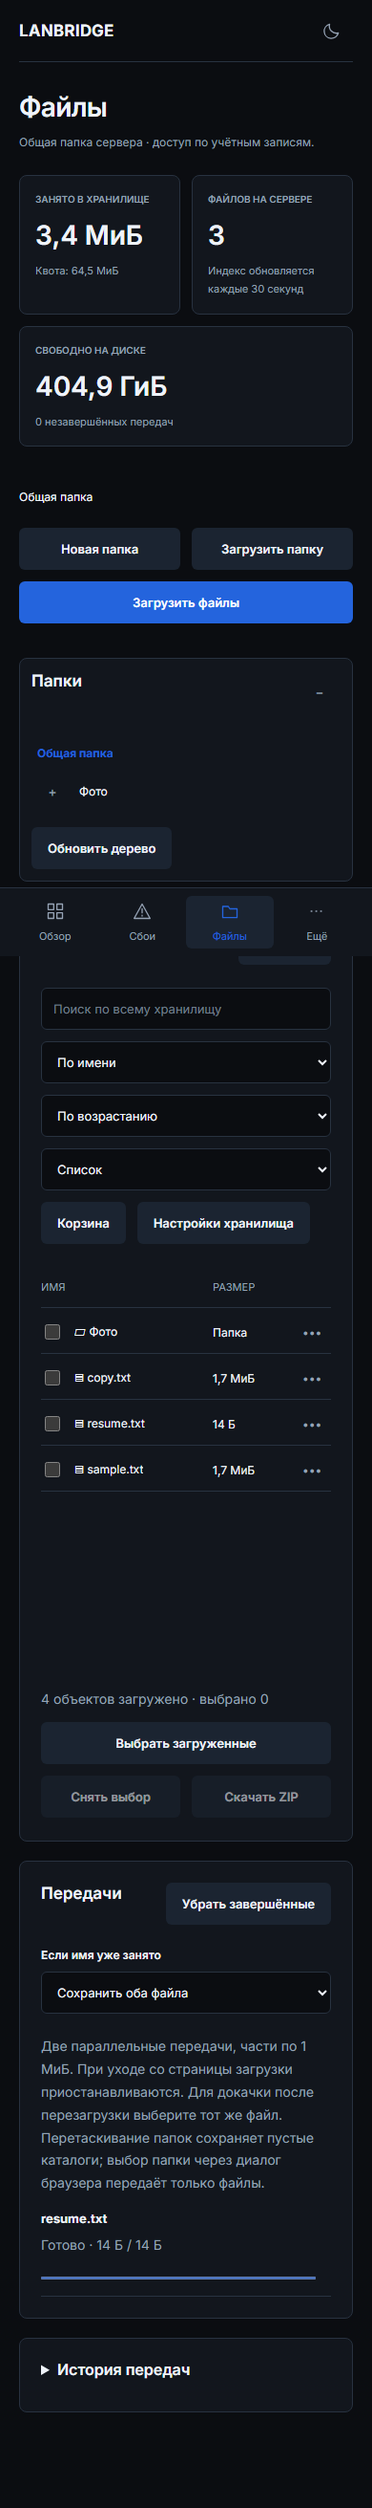
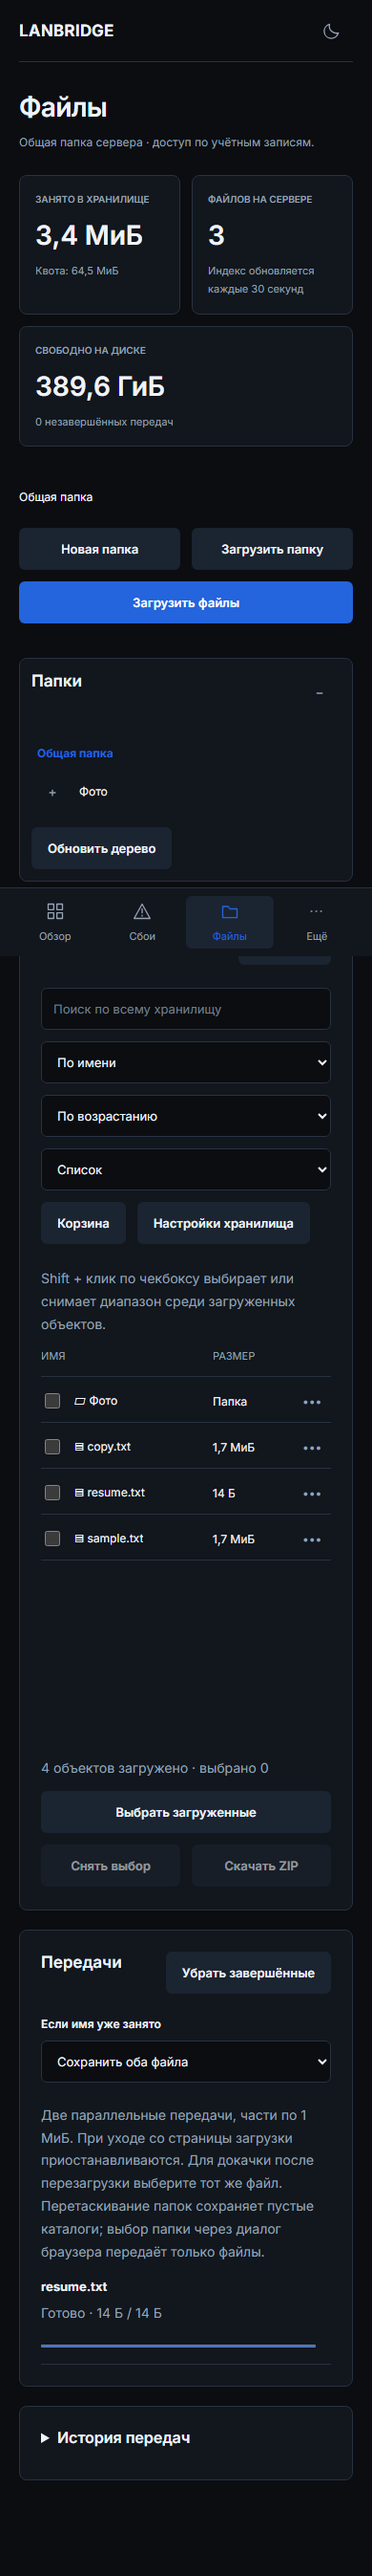
feat: add shift range selection for files

diff --git a/web/src/files.js b/web/src/files.js
@@ -5,6 +5,7 @@ import {StorageSettings} from './storage-settings.js';
 import {FilePreview} from './file-preview.js';
 import {FolderTree} from './folder-tree.js';
 import {UploadHistory} from './upload-history.js';
+import {selectFileRange} from './file-selection.js';
 const html=htm.bind(h);
 export const bytes=n=>{if(!n)return '0 Б';const k=Math.min(4,Math.floor(Math.log(n)/Math.log(1024)));return (n/1024**k).toLocaleString('ru-RU',{maximumFractionDigits:1})+' '+['Б','КиБ','МиБ','ГиБ','ТиБ'][k]};
 const join=(folder,name)=>folder==='.'?name:folder+'/'+name;
@@ -13,6 +14,7 @@ function hashFile(file,signal,onProgress){return new Promise((resolve,reject)=>{
 export function FileBrowser({api,notify,user,csrf}){
  const[folder,setFolder]=useState('.'),[query,setQuery]=useState(''),[sort,setSort]=useState('name'),[items,setItems]=useState([]),[more,setMore]=useState(false),[loading,setLoading]=useState(true),[error,setError]=useState(''),[storage,setStorage]=useState(null),[selected,setSelected]=useState([]),[scroll,setScroll]=useState(0),[dialog,setDialog]=useState(null),[queue,setQueue]=useState([]),[conflict,setConflict]=useState('both'),[trash,setTrash]=useState(null);
  const[order,setOrder]=useState('asc');
+ const selectionAnchor=useRef(null);
  const viewKey='lanbridge-file-view-'+user.id;
  const[view,setView]=useState(()=>{try{return localStorage.getItem(viewKey)==='grid'?'grid':'list'}catch{return 'list'}}),[width,setWidth]=useState(0);
  useEffect(()=>{try{localStorage.setItem(viewKey,view)}catch{/* Storage may be disabled; keep the in-memory preference. */}},[viewKey,view]);
@@ -21,7 +23,7 @@ export function FileBrowser({api,notify,user,csrf}){
  refreshRef.current=refresh;
  const redraw=()=>{if(alive.current)setQueue([...jobs.current])};
  useEffect(()=>{alive.current=true;api('uploads').then(data=>{if(!alive.current)return;jobs.current=data.map(u=>({...u,key:u.id,state:u.state==='committing'?'paused':'choose',serverState:u.state}));redraw()}).catch(e=>notify(e.message,true));return()=>{alive.current=false;for(const j of jobs.current)j.controller?.abort()}},[]);
- useEffect(()=>{setSelected([]);const timer=setTimeout(()=>refresh(),query?200:0);return()=>{clearTimeout(timer);generation.current++}},[folder,query,sort,order]);
+ useEffect(()=>{setSelected([]);selectionAnchor.current=null;const timer=setTimeout(()=>refresh(),query?200:0);return()=>{clearTimeout(timer);generation.current++}},[folder,query,sort,order]);
  async function request(path,method,body,signal,extra={}){const response=await fetch('/api/'+path,{method,signal,headers:{'X-CSRF-Token':csrf,...extra},body});const value=await response.json();if(!response.ok)throw new Error(value.error||'Ошибка передачи');return value}
  async function run(j){
   const controller=new AbortController();j.controller=controller;j.state='hashing';j.error='';redraw();
@@ -54,14 +56,15 @@ export function FileBrowser({api,notify,user,csrf}){
  const visible=items.slice(start,start+(view==='grid'?7*columns:18));
  const zipTooLarge=new TextEncoder().encode(JSON.stringify({paths:selected})).length>16384;
  function selectLoaded(){setSelected(items.slice(0,1000).map(item=>item.path))}
- function toggleSelection(path,checked){setSelected(previous=>checked?(previous.length>=1000?previous:[...new Set([...previous,path])]):previous.filter(value=>value!==path))}
+ function toggleSelection(path,checked,shift){const result=selectFileRange(selected,items.map(item=>item.path),selectionAnchor.current,path,checked,shift);setSelected(result.selected);selectionAnchor.current=path;if(result.limited)notify('Выбрано не более 1000 объектов. Сократите диапазон или скачайте папку целиком.')}
+ function clearSelection(){selectionAnchor.current=null;setSelected([])}
  const download=name=>'/api/files/download?'+new URLSearchParams({path:name});
  const busy=queue.filter(j=>!['complete','cancelled'].includes(j.state)).length;
  return html`<div class="stats three"><section class="stat"><h2>ЗАНЯТО В ХРАНИЛИЩЕ</h2><strong>${storage?bytes(storage.used):'—'}</strong><p>${storage?.settings.global_limit?'Квота: '+bytes(storage.settings.global_limit):'Квота не ограничена'}</p></section><section class="stat"><h2>ФАЙЛОВ НА СЕРВЕРЕ</h2><strong>${storage?.files??'—'}</strong><p>Индекс обновляется каждые 30 секунд</p></section><section class="stat"><h2>СВОБОДНО НА ДИСКЕ</h2><strong>${storage?bytes(storage.available):'—'}</strong><p>${busy} незавершённых передач</p></section></div>
  <div class="file-actions"><nav aria-label="Путь к папке"><button class="monitor-name" onClick=${()=>setFolder('.')}>Общая папка</button>${folder!=='.'&&folder.split('/').map((part,i)=>html`<span> / <button class="monitor-name" onClick=${()=>setFolder(folder.split('/').slice(0,i+1).join('/'))}>${part}</button></span>`)}</nav><div class="dialog-actions"><button class="button secondary" onClick=${()=>setDialog({action:'mkdir'})}>Новая папка</button><button class="button secondary" onClick=${()=>directory.current.click()}>Загрузить папку</button><button class="button" onClick=${()=>input.current.click()}>Загрузить файлы</button></div></div>
  <input hidden type="file" multiple ref=${input} onChange=${e=>{addFiles(Array.from(e.currentTarget.files));e.currentTarget.value=''}}/><input hidden type="file" multiple webkitdirectory=${true} ref=${directory} onChange=${e=>{addFiles(Array.from(e.currentTarget.files));e.currentTarget.value=''}}/><input hidden type="file" ref=${resumeInput} onChange=${e=>{const file=e.currentTarget.files[0],j=resumeItem.current;if(file&&j){if(file.size!==j.size)notify('Размер исходного файла не совпадает',true);else{j.file=file;j.state='queued';redraw();pump()}}e.currentTarget.value=''}}/>
  <div class="file-browser-layout"><${FolderTree} api=${api} folder=${folder} onNavigate=${path=>{setFolder(path);setQuery('')}}/><section class="panel file-panel" onDragOver=${e=>e.preventDefault()} onDrop=${dropped}><div class="panel-heading"><h2>Содержимое папки</h2><button class="button secondary" onClick=${()=>refresh()} disabled=${loading}>Обновить</button></div><div class="toolbar"><input aria-label="Поиск файлов" placeholder="Поиск по всему хранилищу" value=${query} onInput=${e=>setQuery(e.currentTarget.value)}/><select aria-label="Сортировка файлов" value=${sort} onChange=${e=>setSort(e.currentTarget.value)}><option value="name">По имени</option><option value="size">По размеру</option><option value="modified">По дате</option></select><select aria-label="Порядок сортировки" value=${order} onChange=${e=>setOrder(e.currentTarget.value)}><option value="asc">По возрастанию</option><option value="desc">По убыванию</option></select><select aria-label="Вид файлов" value=${view} onChange=${e=>setView(e.currentTarget.value)}><option value="list">Список</option><option value="grid">Плитки</option></select><button class="button secondary" onClick=${openTrash}>Корзина</button>${user.role==='admin'&&html`<button class="button secondary" disabled=${!storage} onClick=${()=>setDialog({action:'storage'})}>Настройки хранилища</button>`}</div>${error&&html`<p class="form-error" role="alert">${error}</p>`}
- <div class="file-list-head" hidden=${view==='grid'}><span>ИМЯ</span><span>РАЗМЕР</span><span>ИЗМЕНЁН</span><span>ДОСТУП</span></div><div class="file-viewport" ref=${viewport} onScroll=${e=>setScroll(e.currentTarget.scrollTop)} aria-label="Список файлов" aria-busy=${loading} role="list"><div style=${{height:Math.max(Math.ceil(items.length/columns)*rowHeight,items.length?0:140)+'px',position:'relative'}}>${visible.map((item,i)=>html`<div role="listitem" class=${view==='grid'?'file-row file-tile':'file-row'} key=${item.path} aria-posinset=${start+i+1} aria-setsize=${items.length} style=${view==='grid'?{top:(Math.floor((start+i)/columns)*rowHeight)+'px',left:((start+i)%columns*100/columns)+'%',width:'calc('+100/columns+'% - 10px)'}:{top:((start+i)*48)+'px'}}><div class="file-name"><input type="checkbox" aria-label=${'Выбрать '+item.name} checked=${selected.includes(item.path)} disabled=${!selected.includes(item.path)&&selected.length>=1000} onChange=${e=>toggleSelection(item.path,e.currentTarget.checked)}/>${item.directory?html`<button class="monitor-name" title=${item.path} onClick=${()=>{setFolder(item.path);setQuery('')}}>▱ ${item.name}</button>`:html`<a title=${item.path} href=${download(item.path)}>▤ ${item.name}</a>`}</div><span>${item.directory?'Папка':bytes(item.size)}</span><span>${new Date(item.modified/1e6).toLocaleDateString('ru-RU')}</span><div class="file-row-end"><span>${{users:'Пользователи',admin:'Администратор',read:'Чтение'}[item.access]}</span><button class="icon-button" aria-label=${'Действия: '+item.name} onClick=${()=>setDialog({action:'menu',item})}>•••</button></div></div>`)}${!items.length&&html`<div class="empty compact"><h3>${loading?'Загрузка…':query?'Ничего не найдено':'Папка пуста'}</h3><p>Перетащите сюда файлы или папки.</p></div>`}</div></div><div class="file-actions"><span class="muted">${items.length} объектов загружено · выбрано ${selected.length}</span><div class="dialog-actions">${more&&html`<button class="button secondary" disabled=${loading} onClick=${()=>refresh(true)}>Загрузить ещё</button>`}<button class="button secondary" disabled=${!items.length||loading} onClick=${selectLoaded}>${items.length>1000?'Выбрать первые 1000':'Выбрать загруженные'}</button><button class="button secondary" disabled=${!selected.length} onClick=${()=>setSelected([])}>Снять выбор</button><button class="button secondary" disabled=${!selected.length||zipTooLarge} onClick=${zip}>Скачать ZIP</button></div></div>${zipTooLarge&&html`<p class="warning" role="status">Сократите выбор: общий список имён слишком большой. Можно выбрать родительскую папку вместо отдельных файлов.</p>`}</section></div>
+ <p class="muted">Shift + клик по чекбоксу выбирает или снимает диапазон среди загруженных объектов.</p><div class="file-list-head" hidden=${view==='grid'}><span>ИМЯ</span><span>РАЗМЕР</span><span>ИЗМЕНЁН</span><span>ДОСТУП</span></div><div class="file-viewport" ref=${viewport} onScroll=${e=>setScroll(e.currentTarget.scrollTop)} aria-label="Список файлов" aria-busy=${loading} role="list"><div style=${{height:Math.max(Math.ceil(items.length/columns)*rowHeight,items.length?0:140)+'px',position:'relative'}}>${visible.map((item,i)=>html`<div role="listitem" class=${view==='grid'?'file-row file-tile':'file-row'} key=${item.path} aria-posinset=${start+i+1} aria-setsize=${items.length} style=${view==='grid'?{top:(Math.floor((start+i)/columns)*rowHeight)+'px',left:((start+i)%columns*100/columns)+'%',width:'calc('+100/columns+'% - 10px)'}:{top:((start+i)*48)+'px'}}><div class="file-name"><input type="checkbox" aria-label=${'Выбрать '+item.name} checked=${selected.includes(item.path)} disabled=${!selected.includes(item.path)&&selected.length>=1000} onClick=${e=>toggleSelection(item.path,e.currentTarget.checked,e.shiftKey)}/>${item.directory?html`<button class="monitor-name" title=${item.path} onClick=${()=>{setFolder(item.path);setQuery('')}}>▱ ${item.name}</button>`:html`<a title=${item.path} href=${download(item.path)}>▤ ${item.name}</a>`}</div><span>${item.directory?'Папка':bytes(item.size)}</span><span>${new Date(item.modified/1e6).toLocaleDateString('ru-RU')}</span><div class="file-row-end"><span>${{users:'Пользователи',admin:'Администратор',read:'Чтение'}[item.access]}</span><button class="icon-button" aria-label=${'Действия: '+item.name} onClick=${()=>setDialog({action:'menu',item})}>•••</button></div></div>`)}${!items.length&&html`<div class="empty compact"><h3>${loading?'Загрузка…':query?'Ничего не найдено':'Папка пуста'}</h3><p>Перетащите сюда файлы или папки.</p></div>`}</div></div><div class="file-actions"><span class="muted">${items.length} объектов загружено · выбрано ${selected.length}</span><div class="dialog-actions">${more&&html`<button class="button secondary" disabled=${loading} onClick=${()=>refresh(true)}>Загрузить ещё</button>`}<button class="button secondary" disabled=${!items.length||loading} onClick=${selectLoaded}>${items.length>1000?'Выбрать первые 1000':'Выбрать загруженные'}</button><button class="button secondary" disabled=${!selected.length} onClick=${clearSelection}>Снять выбор</button><button class="button secondary" disabled=${!selected.length||zipTooLarge} onClick=${zip}>Скачать ZIP</button></div></div>${zipTooLarge&&html`<p class="warning" role="status">Сократите выбор: общий список имён слишком большой. Можно выбрать родительскую папку вместо отдельных файлов.</p>`}</section></div>
  <section class="panel"><div class="panel-heading"><h2>Передачи</h2><button class="button secondary" onClick=${()=>{jobs.current=jobs.current.filter(j=>j.state!=='complete');redraw()}}>Убрать завершённые</button></div><label class="field"><span>Если имя уже занято</span><select value=${conflict} onChange=${e=>setConflict(e.currentTarget.value)}><option value="both">Сохранить оба файла</option><option value="skip">Пропустить (показать конфликт)</option><option value="replace">Заменить существующий файл</option></select></label><p class="muted">Две параллельные передачи, части по 1 МиБ. При уходе со страницы загрузки приостанавливаются. Для докачки после перезагрузки выберите тот же файл. Перетаскивание папок сохраняет пустые каталоги; выбор папки через диалог браузера передаёт только файлы.</p><div class="upload-list">${queue.map(j=>html`<div class="upload-row" key=${j.key}><div><strong>${j.path}</strong><p class="muted">${labels[j.state]} · ${bytes(j.offset||0)} / ${bytes(j.size)}${j.state==='hashing'?' · '+Math.round(100*(j.hashed||0)/Math.max(1,j.size))+'%':j.state==='uploading'&&j.speed?' · '+bytes(j.speed)+'/с · осталось '+Math.ceil((j.size-j.offset)/j.speed)+' с':''}</p><progress max=${Math.max(1,j.size)} value=${j.state==='complete'?Math.max(1,j.size):j.offset||0}/>${j.error&&html`<p class="form-error">${j.error}</p>`}</div><div class="dialog-actions">${['hashing','uploading','finishing'].includes(j.state)?html`<button class="button secondary" onClick=${()=>j.controller?.abort()}>Пауза</button>`:['paused','choose','error'].includes(j.state)&&html`<button class="button secondary" onClick=${()=>resume(j)}>${j.file||j.serverState==='committing'?'Продолжить':'Выбрать файл'}</button>`}${j.state!=='complete'&&html`<button class="icon-button" aria-label=${'Отменить '+j.path} onClick=${()=>cancel(j)}>×</button>`}</div></div>`)}</div>${!queue.length&&html`<p class="muted">Нет активных передач.</p>`}</section>
  <${UploadHistory} api=${api} formatSize=${bytes}/>
  ${dialog?.action==='storage'&&html`<${StorageSettings} settings=${storage.settings} api=${api} onClose=${()=>setDialog(null)} onSaved=${settings=>{setStorage({...storage,settings});setDialog(null);notify('Настройки хранилища сохранены')}}/>`}

diff --git a/web/src/file-selection.test.js b/web/src/file-selection.test.js
@@ -1,0 +1,10 @@
+import {test} from 'node:test';
+import assert from 'node:assert/strict';
+import {selectFileRange as select} from './file-selection.js';
+const paths=['a','b','c','d'];
+test('plain click adds without clearing other selections',()=>assert.deepEqual(select(['a'],paths,'a','c',true,false).selected,['a','c']));
+test('forward range includes both ends',()=>assert.deepEqual(select(['a'],paths,'a','c',true,true).selected,['a','b','c']));
+test('reverse range and removal',()=>assert.deepEqual(select(paths,paths,'d','b',false,true).selected,['a']));
+test('missing anchor becomes a single selection',()=>assert.deepEqual(select([],paths,'gone','c',true,true).selected,['c']));
+test('range is bounded',()=>assert.deepEqual(select([],paths,'a','d',true,true,2),{selected:['a','b'],limited:true}));
+test('invisible rows remain selectable',()=>{const all=Array.from({length:1100},(_,i)=>String(i));const result=select([],all,'0','1099',true,true);assert.equal(result.selected.length,1000);assert.equal(result.limited,true)});

diff --git a/web/src/file-selection.js b/web/src/file-selection.js
@@ -1,0 +1,12 @@
+// Selection uses loaded paths, so it also covers virtualized rows outside the DOM.
+export function selectFileRange(previous, paths, anchor, target, checked, shift, limit=1000) {
+ const end=paths.indexOf(target), start=shift?paths.indexOf(anchor):-1;
+ if(end<0)return {selected:previous,limited:false};
+ const range=start<0?[target]:paths.slice(Math.min(start,end),Math.max(start,end)+1);
+ const selected=new Set(previous);let limited=false;
+ for(const path of range){
+  if(!checked)selected.delete(path);
+  else if(!selected.has(path)){if(selected.size>=limit)limited=true;else selected.add(path)}
+ }
+ return {selected:[...selected],limited};
+}

diff --git a/scripts/verify_go_files.py b/scripts/verify_go_files.py
@@ -127,6 +127,16 @@ def main():
      with page.expect_file_chooser() as chooser:page.get_by_role('button',name='Выбрать файл',exact=True).click()
      chooser.value.set_files({"name":"resume.txt","mimeType":"text/plain","buffer":b'resume-content'})
      page.get_by_role('link',name='▤ resume.txt',exact=True).wait_for(timeout=30000)
+     for file_view in ('list','grid'):
+      page.get_by_label('Вид файлов',exact=True).select_option(file_view)
+      page.get_by_label('Выбрать copy.txt',exact=True).check()
+      page.get_by_label('Выбрать sample.txt',exact=True).click(modifiers=['Shift'])
+      for name in ('copy.txt','resume.txt','sample.txt'):
+       assert page.get_by_label('Выбрать '+name,exact=True).is_checked()
+      page.get_by_label('Выбрать copy.txt',exact=True).click(modifiers=['Shift'])
+      for name in ('copy.txt','resume.txt','sample.txt'):
+       assert not page.get_by_label('Выбрать '+name,exact=True).is_checked()
+     page.get_by_label('Вид файлов',exact=True).select_option('list')
      output=ROOT/'docs/previews';output.mkdir(exist_ok=True)
      for theme in ('dark','light'):
       page.evaluate('(t)=>document.documentElement.dataset.theme=t',theme)

diff --git a/docs/go-files.md b/docs/go-files.md
@@ -32,7 +32,10 @@ API отдаёт до 500 объектов за запрос; «Загрузит
 Имя файла запускает скачивание с HTTP Range. Для ZIP отметьте файлы/папки и
 нажмите «Скачать ZIP». «Выбрать загруженные» отмечает уже полученные объекты
 (не только видимые строки); для списка длиннее 1000 выбираются первые 1000.
-«Снять выбор» очищает отметки. Новые страницы автоматически не выделяются.
+Shift + клик по чекбоксу выделяет или снимает диапазон от предыдущего
+чекбокса, включая загруженные строки вне видимой области. Работает в списке и
+плитках; до 1000 объектов, при достижении лимита появляется сообщение.
+«Снять выбор» очищает отметки и начало диапазона. Новые страницы автоматически не выделяются.
 При слишком большом общем списке имён ZIP недоступен до сокращения выбора;
 можно выбрать родительскую папку. После обновления отметки отсутствующих
 в полученном списке объектов сбрасываются. Сервер передаёт архив потоком без промежуточного файла,

diff --git a/README.md b/README.md
@@ -9,7 +9,7 @@
 > Под очередью передач доступна история передач с длительностью, средней скоростью, поиском и фильтром типа.
 > Добавлено раскрываемое дерево папок с постраничной загрузкой.
 > Оставшиеся этапы: [docs/progress.md](docs/progress.md).
-> Для ZIP доступны массовый выбор загруженных объектов и снятие выбора.
+> Для ZIP доступны массовый выбор, диапазон через Shift + клик и снятие выбора.
 > Доступна сортировка файлов по имени, размеру и дате в обоих направлениях.
 > Список файлов переключается на адаптивные плитки; выбор сохраняется в браузере.
 > Предпросмотр текста, изображений и видео — через меню файла «•••».

diff --git a/docs/progress.md b/docs/progress.md
@@ -28,7 +28,7 @@ heartbeat, обнаружение устройств и диагностика. 
 Оставшиеся детали предыдущих этапов:
 
 - Обзор: реальные карточки CPU/RAM/диска и устройств, разделение WAN/LAN, порядок групп.
-- Файлы: перетаскивание в папку/дерево, Shift/Ctrl и групповые операции,
+- Файлы: перетаскивание в папку/дерево, Ctrl-сочетания и групповые операции,
   фоновый размер каталогов, PDF; дерево пока обновляется вручную.
 - Настройки: логотип, формат даты, структура i18n, домашняя страница и порядок карточек.
 - Устройства: полная OUI-база; проверка обнаружения на физической сети.

diff --git a/CHANGELOG.md b/CHANGELOG.md
@@ -6,6 +6,9 @@
 
 ### Переход на Go
 
+- Добавлен выбор/снятие диапазона через Shift + клик по чекбоксам в списке и плитках.
+  Диапазон учитывает загруженные невидимые строки и лимит 1000 объектов.
+
 - В историю добавлены приблизительная длительность и средняя скорость с учётом
   пауз. Для недостаточной точности времени и обратного хода часов скорость скрыта.
 
